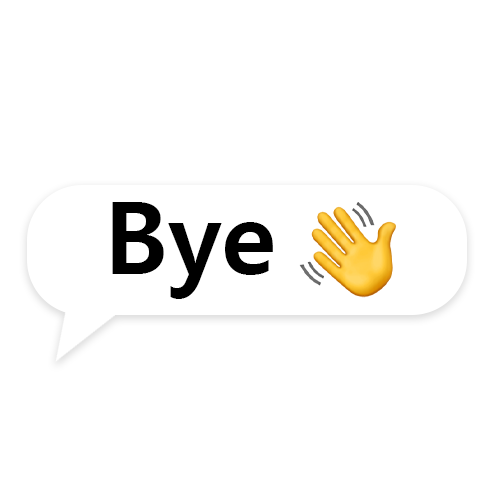
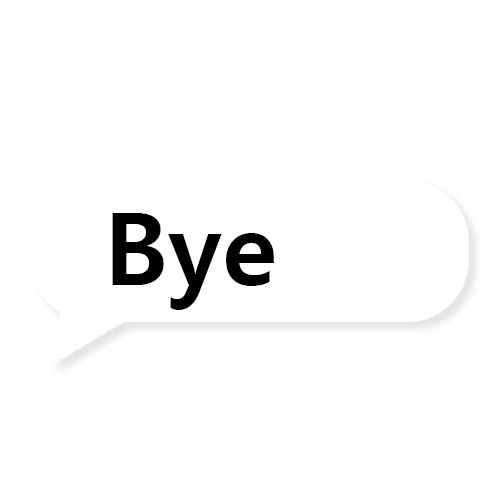
포트폴리오

Changed region(s): [[0.21, 0.39, 0.84, 0.69], [0.6, 0.39, 0.81, 0.6]]

diff --git a/css/portfolio2.css b/css/portfolio2.css
@@ -28,17 +28,11 @@
     from, to {border-color: transparent; }
     50% {border-color: #656565; }
 }
-/* @keyframes shake {
+@keyframes shake {
     0%{transform: rotate(0deg);}
-    10%{transform: rotate(45deg);}
-    20%{transform: rotate(-45deg);}
-    30%{transform: rotate(30deg);}
-    40%{transform: rotate(-30deg);}
-    50%{transform: rotate(10deg);}
-    60%{transform: rotate(-10deg);}
-    70%{transform: rotate(0deg);}
+    50%{transform: rotate(30deg);}
     100%{transform: rotate(0deg);}
-} */
+}
 *{
     margin: 0px;
     padding: 0px;
@@ -114,13 +108,13 @@ ul.gnb > li {
     font-size: 1.2rem;
     line-height: 70px;
     font-weight: 600;
-    color: #272727;
+    color: #505050;
 }
 
 .gnb > li > a:after{
     display: block;
     content: ' ';
-    border-bottom: solid 2px #373737;
+    border-bottom: solid 2px #505050;
     position: relative;
     top: -15px;
     transform: scaleX(0);
@@ -224,7 +218,7 @@ main{
     width: 2px;
     padding: 10px 15px;
     height: 35px;
-    border: 2px solid #656565;
+    border: 2px solid #505050;
     border-radius: 25px;
     opacity: 0.75;
     box-sizing: content-box;
@@ -292,6 +286,7 @@ img.minju{
     margin: 7% 0;
     font-weight: 600;
     font-size: 1.5rem;
+    color:#373737;
 }
 .hashtag{
     display: flex;
@@ -577,20 +572,28 @@ footer .memoji {
     top: 15%;
     left: 10%;
 }
-
-.memoji img.memoji_bye {
-    width: 200px;
-    height: 220px;
-    transform-origin: 0% 50%;
-      animation-name: shake;
-      animation-duration: 2s;
-      animation-iteration-count: infinite;
-      animation-delay: 0.5s;
-}
 .memoji img.woozu_bye {
     width: 240px;
     height: 240px;
 }
+.speech_bubble{display: flex;}
+
+.speech_bubble img.memoji_bye {
+    width: 200px;
+    height: 220px;
+    
+}
+.speech_bubble img.hand{
+    width: 50px;
+    height: 50px;
+    position: relative;
+    top: 37%;
+    left: -36%;
+    transform-origin: bottom right;
+    animation: shake 1s 0.5s infinite;
+}
+
+
 .foot_text {
     text-align: center;
     position: relative;

diff --git a/html/portfoilo_2.html b/html/portfoilo_2.html
@@ -250,7 +250,10 @@
             </div>
             <div class="memoji">
                 <img src="../img/index2/woozu's bye.png" class="woozu_bye" alt="우민주 미모티콘">
-                <img src="../img/index2/bye.png" class="memoji_bye" alt="bye 말풍선">
+                <div class="speech_bubble">
+                    <img src="../img/index2/bye.png" class="memoji_bye" alt="bye 말풍선">
+                    <img src="../img/index2/waving-hand_1f44b.png" class="hand" alt="손 흔드는 이모티콘">
+                </div>    
             </div>
             <img src="../img/index2/cloud.png" class= ft_cloud1 alt="구름 png">
         </div>    

diff --git a/js/portfoilo_2.js b/js/portfoilo_2.js
@@ -15,7 +15,7 @@ $(function (){
         //section 이동 시 리모콘 클래스 추가 
         $("section").each(function() {
              
-            if (scroll >= $(this).offset().top) {
+            if (scroll >= $(this).offset().top - 100) {
                 $("li[data-id=" + $(this).attr('class').split(' ')[0] + "]").addClass('on').siblings().removeClass('on');
 
             } else if (scroll >= $('.page_3rd').offset().top + 700) {
